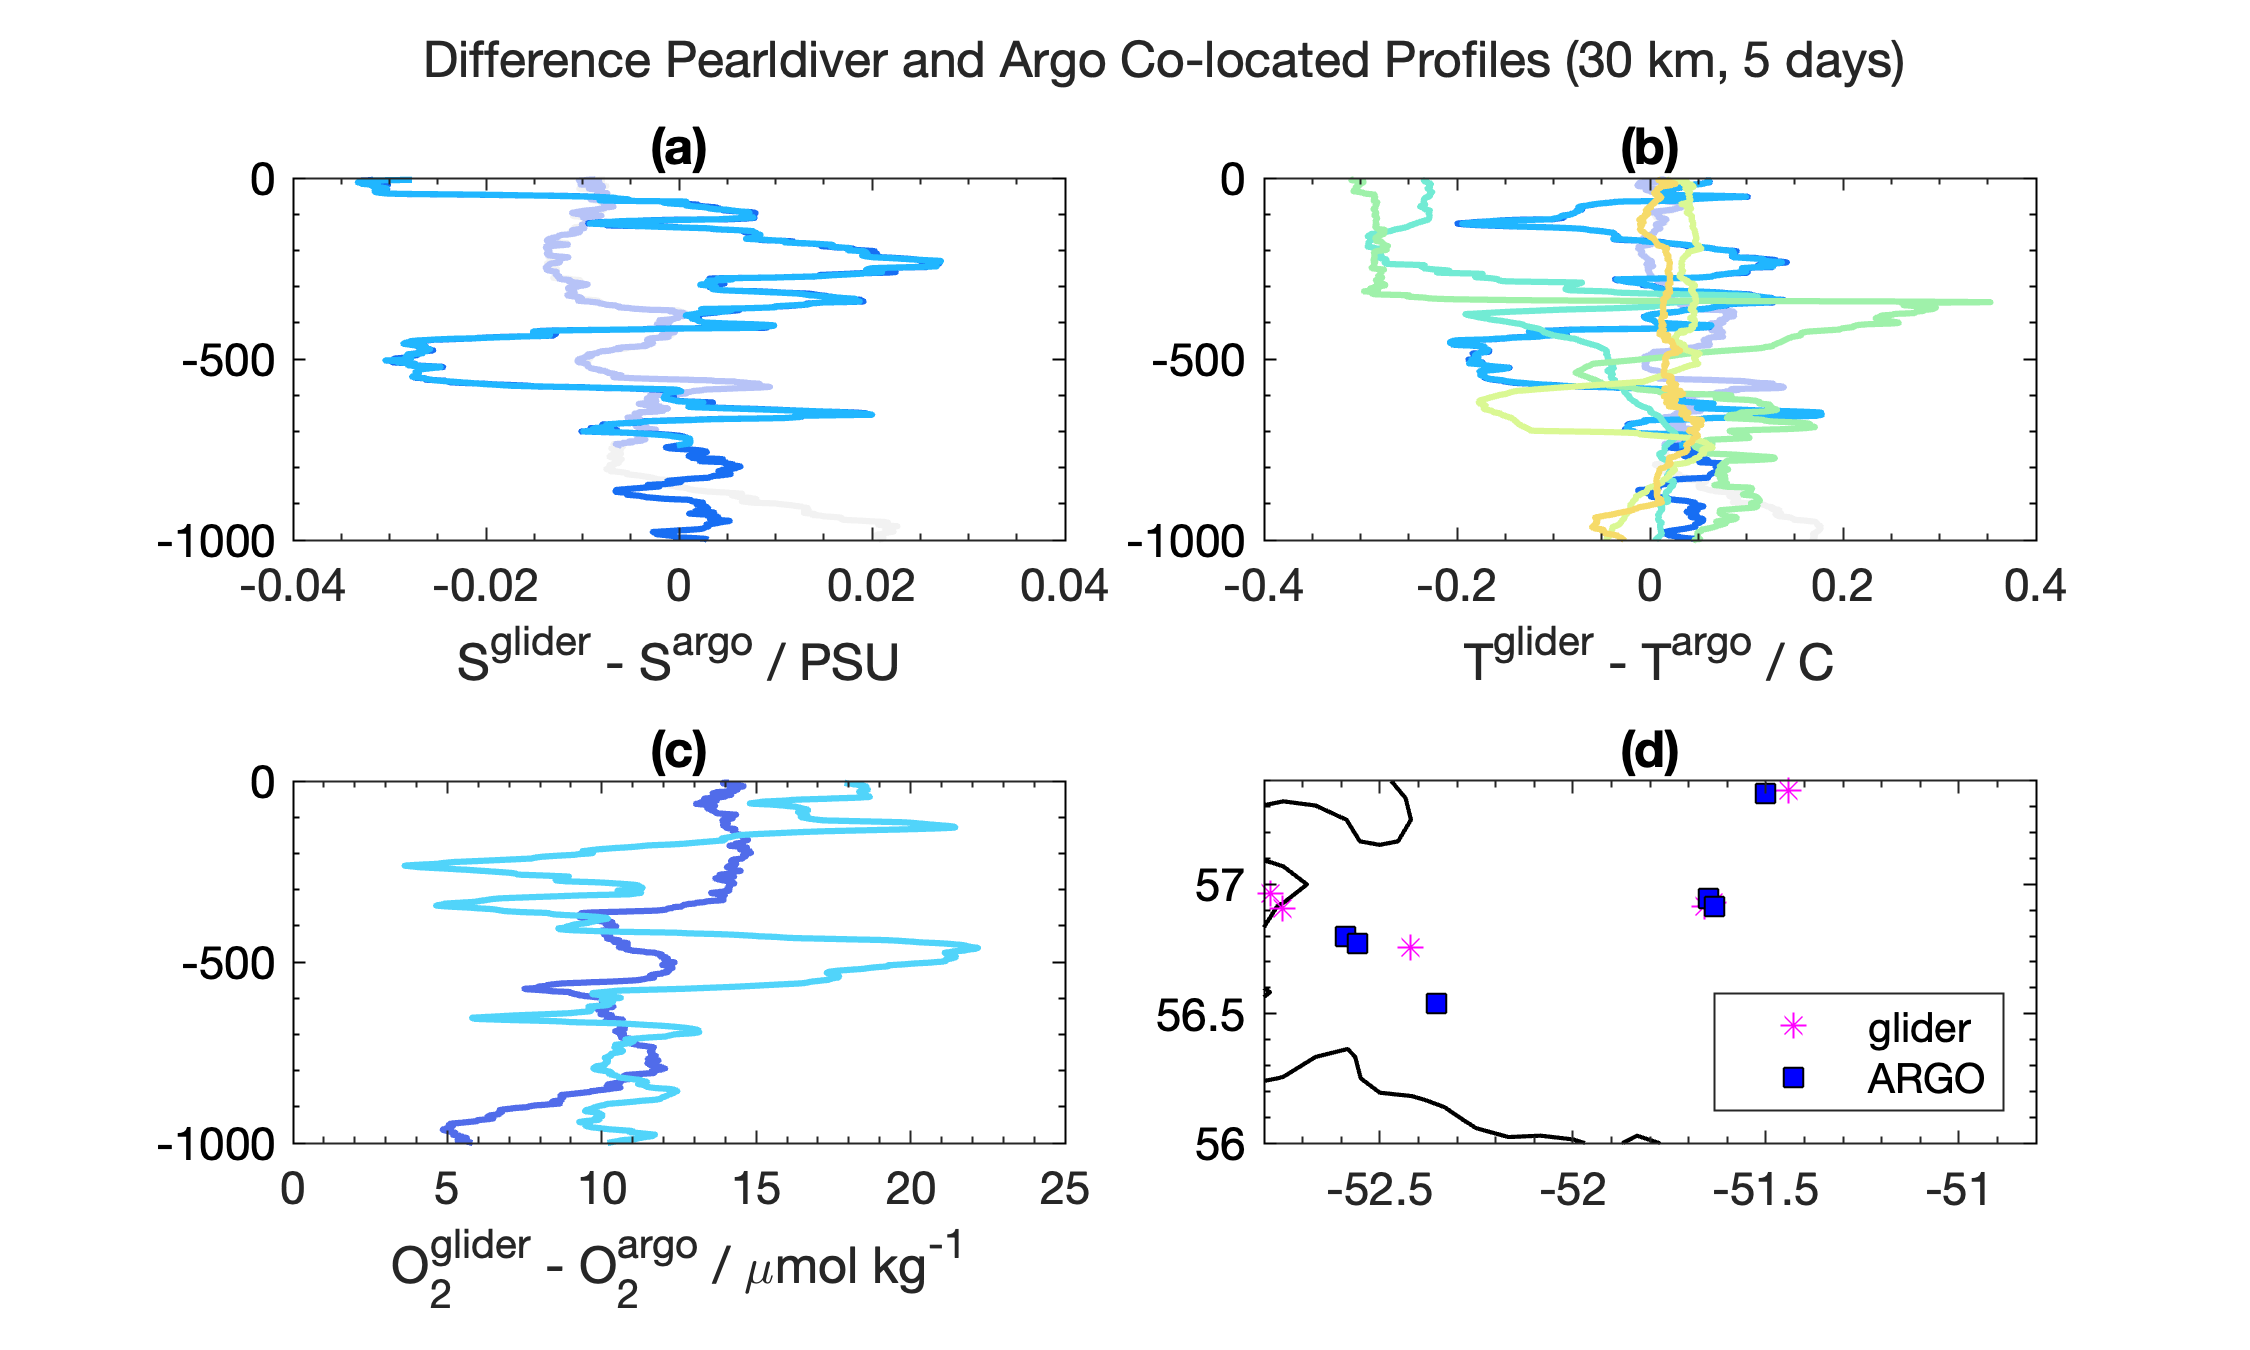
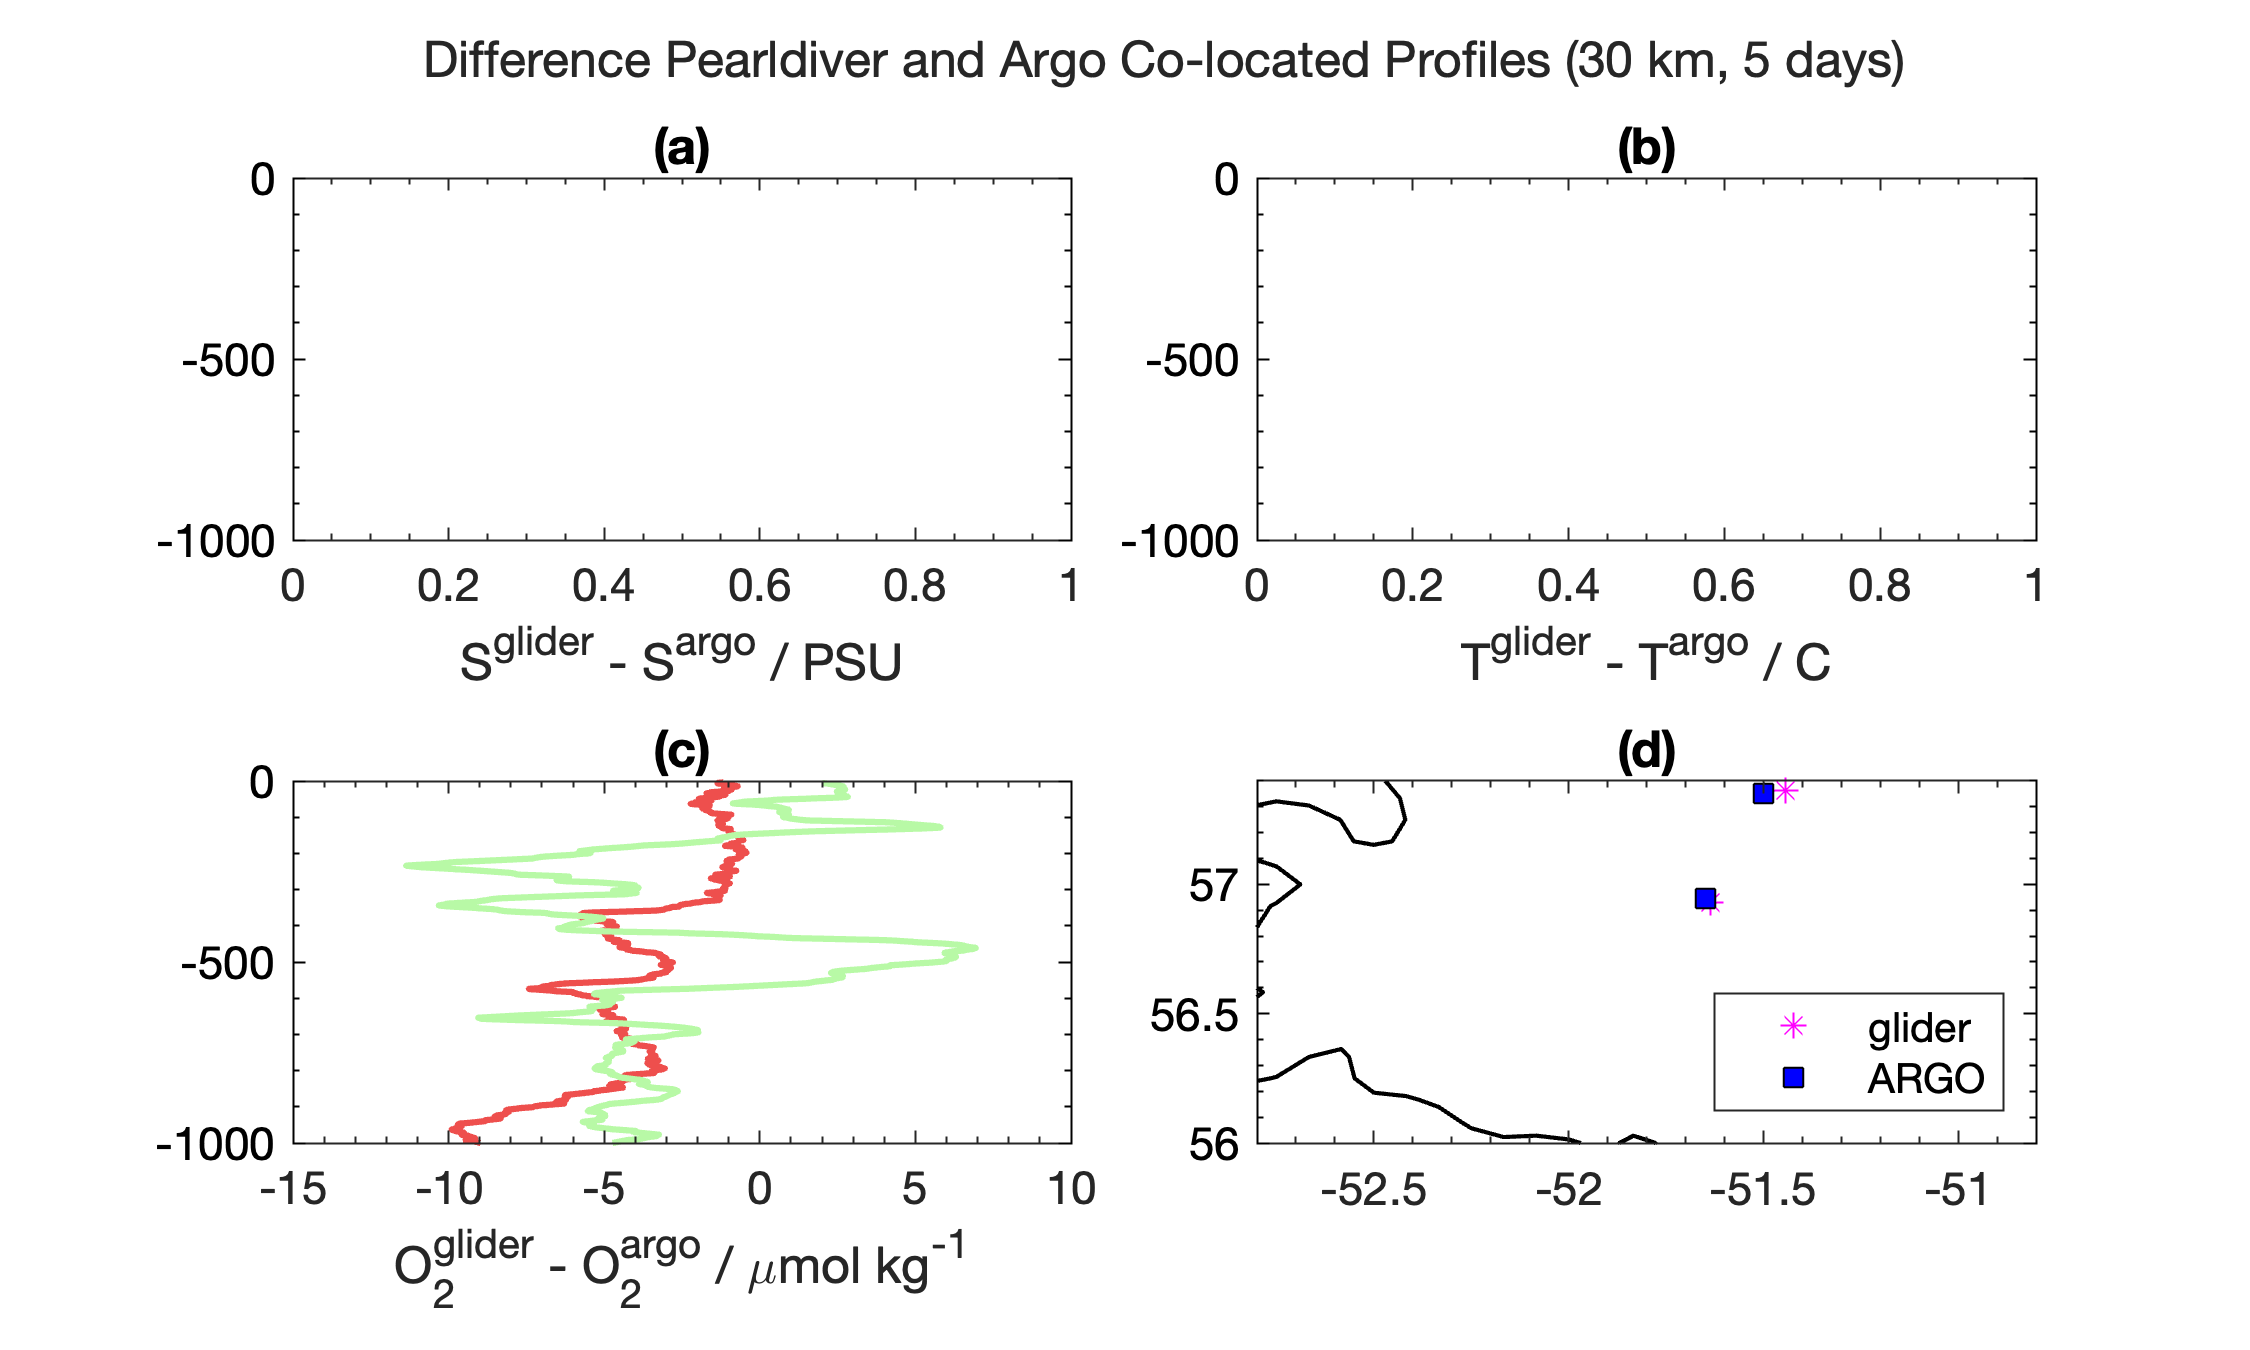
carry-over

diff --git a/LabSea_OxygenStory/p5_adjust_optode_ERA5_grd.m b/LabSea_OxygenStory/p5_adjust_optode_ERA5_grd.m
@@ -1,0 +1,142 @@
+clear; clc; close all;
+
+path_name = './mat_files/'
+var_name  = 'pearldiver_data'
+load(fullfile(path_name,[var_name,'_clean.mat']))
+dat = pearldiver; 
+
+% load ERA5 hourly single level data
+load('./mat_files/pearldiver_era5_data.mat')
+
+slp = interp1(era5.time,era5.slp,dat.gridded.timeg);
+rh  = interp1(era5.time,era5.rh, dat.gridded.timeg);
+ta  = interp1(era5.time,era5.ta, dat.gridded.timeg);
+pH2O  = vpress(nanmean(dat.gridded.salinity(1:5,:),1),nanmean(dat.gridded.temperature(1:5,:),1)); % atm top 5 m
+
+% Compute Partial Pressure Oxygen Air and Wet
+pO2_opt = O2ctoO2p(dat.gridded.oxygen_raw,dat.gridded.temperature,...
+    dat.gridded.salinity,dat.gridded.pressure); % mbar Optode derived
+
+pO2_air = (slp/101325-pH2O.*rh)*0.20946*1013.25; % mbar ERA5 derived
+
+
+psat = satvap(ta,slp*0.01);
+pO2_ref = 0.20946*(1013.25-psat);               % mbar Theoretical in-air
+
+%% Next Extract Surface Measuring Intervals
+
+pO2wet_1m = nanmean(pO2_opt(1:2,:),1); % surface O2
+pO2wet_2m = nanmean(pO2_opt(3:5,:),1); % subsurface
+depth_1m  = nanmean(dat.gridded.pressure(1:2,:),1);
+
+
+% This is getting under/super saturation
+d_O2wet_a = (pO2wet_1m ./pO2_ref)-1; % glider near  air 1m
+d_O2air_a = (pO2_air ./pO2_ref)-1; % era5 data 
+d_O2wet_w2m = (pO2wet_2m ./ pO2_ref)-1;
+
+%% Carry Over Effect:
+% From github ARGO Canada DMQC
+x1 = pO2wet_1m - pO2_air;
+y1 = pO2wet_2m - pO2_air;
+x1 = x1(:); y1 = y1(:);
+
+id = ~isnan(x1) & ~isnan(y1);
+x1 = x1(id);
+y1 = y1(id);
+X = [x1, ones(length(x1), 1)];  % Adding a column of ones for intercept
+c = X \ y1;
+c = c(1);
+
+O2_gains = ((1-c)*pO2_air)./(pO2wet_1m - c*pO2wet_2m);
+
+% plot(dat.gridded.timeg,1./O2_gains,'.')
+
+% This is how I would estimate the gain ref vs measured to adjust
+% O2_gains= (pO2air_1m./ pO2wet_1m); % simple absolute gain based on pO2
+% air should be pO2 glider at surface
+O2_gains_o= (d_O2air_a+1)./(d_O2wet_a+1); 
+
+%% Stuff from Nicholson 2017 -- trying to recreate plots
+% d_O2wet_a = (pO2wet_1m ./dat.pO2ref)-1; % glider near  air 1m
+% d_O2air_a = (pO2air_1m ./dat.pO2ref)-1; % era5 data 
+% d_O2wet_w2m = (pO2wet_2m ./dat.pO2ref)-1;
+% d_O2wet_w100m = (pO2wet_100m./dat.pO2ref)-1;
+
+% idnan = isnan(d_O2wet_a) | isnan(d_O2wet_w100m) | isnan(d_O2wet_w2m);
+% d_O2wet_w100m(idnan)=[];
+% d_O2wet_a(idnan)=[];
+% d_O2wet_w2m(idnan)=[];
+
+tthresh = datenum(2020,04,01);
+id = find(dat.gridded.timeg(~isnan(dat.gridded.timeg)) < tthresh);
+id2 = find(dat.gridded.timeg(~isnan(dat.gridded.timeg)) > tthresh);
+
+
+% Create a figure
+figure;
+
+% Create a tiled layout with 1 row and 2 columns
+t = tiledlayout(2, 2);
+
+% Create the first tile
+nexttile([1 2]);
+hold on;
+h1 = plot(dat.gridded.timeg, O2_gains, '.');
+h2 = plot(dat.gridded.timeg, dat.gridded.timeg*0 + nanmedian(O2_gains(id)), '-b');
+h3 = plot(dat.gridded.timeg, dat.gridded.timeg*0 + nanmean(O2_gains(id)), '-r');
+h4 = plot(dat.gridded.timeg, dat.gridded.timeg*0 + nanmean(O2_gains(id)) - std(O2_gains(id), [], "all", "omitnan"), '--k');
+plot(dat.gridded.timeg, dat.gridded.timeg*0 + nanmean(O2_gains(id)) + std(O2_gains(id), [], "all", "omitnan"), '--k');
+plot([tthresh tthresh], [0.85 1.1], ':', 'Color', [.6 .6 .6]);
+legend([h1 h2 h3 h4], {'gains', ...
+    ['median (',num2str(round(nanmedian(O2_gains(id)),3)),')'], ...
+    ['mean (',num2str(round(nanmean(O2_gains(id)),3)),')'], ...
+    ['\pm 1\sigma (',num2str(round(nanstd(O2_gains(id)),3)),')'],...
+    }, 'Location', 'best');
+ylabel('gain (\Delta O^{air}_{2,a} / \Delta O^{wet}_{2,a})');
+xlim([datenum(2020, 01, 01) datenum(2020, 05, 30)]);
+datetick('x', 'dd-mmm-yy');
+title('(a)','HorizontalAlignment','left')
+formatplot;
+
+% Create the second tile
+nexttile;
+hold on;
+h = histogram(O2_gains(id));
+h2 = histogram(O2_gains(id2), 'FaceColor', 'm', 'BinWidth', h.BinWidth);
+h3 = plot([nanmean(O2_gains(id)) nanmean(O2_gains(id))], [0 80], '-r', 'LineWidth', 2);
+h4 = plot([nanmedian(O2_gains(id)) nanmedian(O2_gains(id))], [0 80], '-b', 'LineWidth', 2);
+xlabel('gain factor \Delta O^{air}_{2,a} / \Delta O^{wet}_{2,a}');
+ylabel('count');
+title('(b)','HorizontalAlignment','left')
+legend('gains (t<01-04-2020)', 'gains (t>01-04-2020)', 'mean', 'median', 'Location', 'best');
+formatplot;
+
+
+% Format date tick labels
+nexttile; hold on
+plot(d_O2wet_w2m*100+100,d_O2wet_a*100+100,'*');
+plot([90 105],[90 110],':k')
+xlim([94 107])
+ylim([94 107])
+ylabel('O^{wet,a}_2 / %')
+xlabel('O^{wet, 2m}_2 / %')
+formatplot
+title('(c)','HorizontalAlignment','left')
+legend('glider data','1:1 fit','location','best')
+
+
+t.TileSpacing='compact';
+t.Padding='compact';
+subtitle(t,'Pearldiver Glider and ERA5 derived Surface pO_2 Gains (Carry-Over Effect)')
+save_figure(gcf,['./plots/pearldiver_era5_optode_gains_carry_over'],[7.5 5],['.png'],'300')
+
+%% Adjust Raw Oxygen using the median gain before May 1 calculated from the ERA5 pO2 comparison
+tthresh = datenum(2020,04,01);
+id = find(dat.gridded.timeg < tthresh);
+pearldiver.adjusted_oxygen_concentration = dat.raw_oxygen_concentration*nanmean(O2_gains(id));
+pearldiver.gridded.oxygen_adjusted = dat.gridded.oxygen_raw*nanmean(O2_gains(id));
+
+% save result
+save(fullfile(path_name,[var_name,'_oxy_qc.mat']),'pearldiver','-v7.3')
+

diff --git a/LabSea_OxygenStory/s5_adjust_optode_ERA5_grd.m b/LabSea_OxygenStory/s5_adjust_optode_ERA5_grd.m
@@ -1,0 +1,142 @@
+clear; clc; close all;
+
+path_name = './mat_files/'
+var_name  = 'sunfish_data'
+load(fullfile(path_name,[var_name,'_clean.mat']))
+dat = sunfish; 
+
+% load ERA5 hourly single level data
+load('./mat_files/sunfish_era5_data.mat')
+
+slp = interp1(era5.time,era5.slp,dat.gridded.timeg);
+rh  = interp1(era5.time,era5.rh, dat.gridded.timeg);
+ta  = interp1(era5.time,era5.ta, dat.gridded.timeg);
+pH2O  = vpress(nanmean(dat.gridded.salinity(1:5,:),1),nanmean(dat.gridded.temperature(1:5,:),1)); % atm top 5 m
+
+% Compute Partial Pressure Oxygen Air and Wet
+pO2_opt = O2ctoO2p(dat.gridded.oxygen_raw,dat.gridded.temperature,...
+    dat.gridded.salinity,dat.gridded.pressure); % mbar Optode derived
+
+pO2_air = (slp/101325-pH2O.*rh)*0.20946*1013.25; % mbar ERA5 derived
+
+
+psat = satvap(ta,slp*0.01);
+pO2_ref = 0.20946*(1013.25-psat);               % mbar Theoretical in-air
+
+%% Next Extract Surface Measuring Intervals
+
+pO2wet_1m = nanmean(pO2_opt(1:2,:),1); % surface O2
+pO2wet_2m = nanmean(pO2_opt(3:5,:),1); % subsurface
+depth_1m  = nanmean(dat.gridded.pressure(1:2,:),1);
+
+
+% This is getting under/super saturation
+d_O2wet_a = (pO2wet_1m ./pO2_ref)-1; % glider near  air 1m
+d_O2air_a = (pO2_air ./pO2_ref)-1; % era5 data 
+d_O2wet_w2m = (pO2wet_2m ./ pO2_ref)-1;
+
+%% Carry Over Effect:
+% From github ARGO Canada DMQC
+x1 = pO2wet_1m - pO2_air;
+y1 = pO2wet_2m - pO2_air;
+x1 = x1(:); y1 = y1(:);
+
+id = ~isnan(x1) & ~isnan(y1);
+x1 = x1(id);
+y1 = y1(id);
+X = [x1, ones(length(x1), 1)];  % Adding a column of ones for intercept
+c = X \ y1;
+c = c(1);
+
+O2_gains = ((1-c)*pO2_air)./(pO2wet_1m - c*pO2wet_2m);
+
+% plot(dat.gridded.timeg,1./O2_gains,'.')
+
+% This is how I would estimate the gain ref vs measured to adjust
+% O2_gains= (pO2air_1m./ pO2wet_1m); % simple absolute gain based on pO2
+% air should be pO2 glider at surface
+O2_gains_o= (d_O2air_a+1)./(d_O2wet_a+1); 
+
+%% Stuff from Nicholson 2017 -- trying to recreate plots
+% d_O2wet_a = (pO2wet_1m ./dat.pO2ref)-1; % glider near  air 1m
+% d_O2air_a = (pO2air_1m ./dat.pO2ref)-1; % era5 data 
+% d_O2wet_w2m = (pO2wet_2m ./dat.pO2ref)-1;
+% d_O2wet_w100m = (pO2wet_100m./dat.pO2ref)-1;
+
+% idnan = isnan(d_O2wet_a) | isnan(d_O2wet_w100m) | isnan(d_O2wet_w2m);
+% d_O2wet_w100m(idnan)=[];
+% d_O2wet_a(idnan)=[];
+% d_O2wet_w2m(idnan)=[];
+
+tthresh = datenum(2022,04,01);
+id = find(dat.gridded.timeg(~isnan(dat.gridded.timeg)) < tthresh);
+id2 = find(dat.gridded.timeg(~isnan(dat.gridded.timeg)) > tthresh);
+
+
+% Create a figure
+figure;
+
+% Create a tiled layout with 1 row and 2 columns
+t = tiledlayout(2, 2);
+
+% Create the first tile
+nexttile([1 2]);
+hold on;
+h1 = plot(dat.gridded.timeg, O2_gains, '.');
+h2 = plot(dat.gridded.timeg, dat.gridded.timeg*0 + nanmedian(O2_gains(id)), '-b');
+h3 = plot(dat.gridded.timeg, dat.gridded.timeg*0 + nanmean(O2_gains(id)), '-r');
+h4 = plot(dat.gridded.timeg, dat.gridded.timeg*0 + nanmean(O2_gains(id)) - std(O2_gains(id), [], "all", "omitnan"), '--k');
+plot(dat.gridded.timeg, dat.gridded.timeg*0 + nanmean(O2_gains(id)) + std(O2_gains(id), [], "all", "omitnan"), '--k');
+plot([tthresh tthresh], [0.9 1.2], ':', 'Color', [.6 .6 .6]);
+legend([h1 h2 h3 h4], {'gains', ...
+    ['median (',num2str(round(nanmedian(O2_gains(id)),3)),')'], ...
+    ['mean (',num2str(round(nanmean(O2_gains(id)),3)),')'], ...
+    ['\pm 1\sigma (',num2str(round(nanstd(O2_gains(id)),3)),')'],...
+    }, 'Location', 'best');
+ylabel('gain (\Delta O^{air}_{2,a} / \Delta O^{wet}_{2,a})');
+xlim([datenum(2022, 01, 01) datenum(2022, 05, 30)]);
+datetick('x', 'dd-mmm-yy');
+title('(a)','HorizontalAlignment','left')
+formatplot;
+
+% Create the second tile
+nexttile;
+hold on;
+h = histogram(O2_gains(id));
+h2 = histogram(O2_gains(id2), 'FaceColor', 'm', 'BinWidth', h.BinWidth);
+h3 = plot([nanmean(O2_gains(id)) nanmean(O2_gains(id))], [0 100], '-r', 'LineWidth', 2);
+h4 = plot([nanmedian(O2_gains(id)) nanmedian(O2_gains(id))], [0 100], '-b', 'LineWidth', 2);
+xlabel('gain factor \Delta O^{air}_{2,a} / \Delta O^{wet}_{2,a}');
+ylabel('count');
+title('(b)','HorizontalAlignment','left')
+legend('gains (t<01-04-2022)', 'gains (t>01-04-2022)', 'mean', 'median', 'Location', 'best');
+formatplot;
+
+
+% Format date tick labels
+nexttile; hold on
+plot(d_O2wet_w2m*100+100,d_O2wet_a*100+100,'*');
+plot([82 95],[82 95],':k')
+xlim([82 95])
+ylim([82 95])
+ylabel('O^{wet,a}_2 / %')
+xlabel('O^{wet, 2m}_2 / %')
+formatplot
+title('(c)','HorizontalAlignment','left')
+legend('glider data','1:1 fit','location','best')
+
+
+t.TileSpacing='compact';
+t.Padding='compact';
+subtitle(t,'Sunfish Glider and ERA5 derived Surface pO_2 Gains (Carry-Over Effect)')
+save_figure(gcf,['./plots/sunfish_era5_optode_gains_carry_over'],[7.5 5],['.png'],'300')
+
+%% Adjust Raw Oxygen using the median gain before May 1 calculated from the ERA5 pO2 comparison
+tthresh = datenum(2022,04,01);
+id = find(dat.gridded.timeg < tthresh);
+sunfish.adjusted_oxygen_concentration = dat.raw_oxygen_concentration*nanmean(O2_gains(id));
+sunfish.gridded.oxygen_adjusted = dat.gridded.oxygen_raw*nanmean(O2_gains(id));
+
+% save result
+save(fullfile(path_name,[var_name,'_oxy_qc.mat']),'sunfish','-v7.3')
+

diff --git a/LabSea_OxygenStory/p6_compare_to_argo_oxygen.m b/LabSea_OxygenStory/p6_compare_to_argo_oxygen.m
@@ -14,7 +14,7 @@ dat.gridded.oxygen_raw_umolkg = dat.gridded.oxygen_raw./(dat.gridded.rho/1000);
 load('./ARGO/argo_oxygen.mat')
 
 % Co-locate glider and Argo measurements and store result
-idx = find(argo.TIME>=dat.gridded.timeg(1) & argo.TIME<=dat.gridded.timeg(end));
+idx = find(argo.TIME>=dat.gridded.timeg(1) & argo.TIME<=datenum(2020,05,20));
 
 GL_VAR_LIST = fieldnames(dat.gridded);
 AR_VAR_LIST = fieldnames(argo);
@@ -50,7 +50,7 @@ t = tiledlayout(2,2);
 
 
 nexttile; hold on
-colMAP = seminfhaxby(length(glProfs.timeg)+2);
+colMAP = flipud(seminfhaxby(length(glProfs.timeg)+2));
 for i = 1:length(glProfs.timeg)
     plot(glProfs.salinity(:,i),-glProfs.pressure(:,i),'Color',colMAP(i,:),'LineWidth',1.5);
     plot(glProfs.argo.PSAL_ADJUSTED(:,i),-glProfs.argo.pgrid(:,i),'Color',colMAP(i,:));
@@ -90,7 +90,7 @@ formatplot
 legend([h1 h2],{'glider','ARGO'},'Location','SE')
 title('(d)')
 
-subtitle(t,'Difference Pearldiver and Argo Co-located Profiles (30 km, 5 days)')
+subtitle(t,'Pearldiver and Argo Co-located Profiles (30 km, 5 days)')
 t.TileSpacing='compact';
 save_figure(gcf,['./plots/pearldiver_argo_profiles'],[7.5 4.5],'.png','300')
 
@@ -101,7 +101,6 @@ t = tiledlayout(2,2);
 
 
 nexttile; hold on
-colMAP = seminfhaxby(length(glProfs.timeg)+2);
 for i = 1:length(glProfs.timeg)
     plot(glProfs.salinity(:,i)-glProfs.argo.PSAL_ADJUSTED(:,i),-glProfs.pressure(:,i),'Color',colMAP(i,:),'LineWidth',1.5);
 end

diff --git a/LabSea_OxygenStory/p5_adjust_optode_ERA5.m b/LabSea_OxygenStory/p5_adjust_optode_ERA5.m
@@ -62,12 +62,28 @@ pO2wet_100m = interp1(time_100m(id),pO2wet_100m(id),dat.time);
 % This is getting under/super saturation
 d_O2wet_a = (pO2wet_1m ./dat.pO2ref)-1; % glider near  air 1m
 d_O2air_a = (pO2air_1m ./dat.pO2ref)-1; % era5 data 
+d_O2wet_w2m = (pO2wet_2m ./dat.pO2ref)-1;
+
+%% Carry Over Effect:
+% From github ARGO Canada DMQC
+x1 = pO2wet_1m - pO2air_1m;
+y1 = pO2wet_2m - pO2air_1m;
+
+id = ~isnan(x1) & ~isnan(y1);
+x1 = x1(id);
+y1 = y1(id);
+X = [x1, ones(length(x1), 1)];  % Adding a column of ones for intercept
+c = X \ y1;
+c = c(1);
+
+O2_gains = ((1-c)*pO2air_1m(id))./(pO2wet_1m(id) - c*pO2wet_2m(id));
+
+plot(dat.time(id),O2_gains,'.')
 
 % This is how I would estimate the gain ref vs measured to adjust
 % O2_gains= (pO2air_1m./ pO2wet_1m); % simple absolute gain based on pO2
 % air should be pO2 glider at surface
-
-O2_gains= (d_O2air_a+1)./(d_O2wet_a+1); 
+O2_gains_o= (d_O2air_a(id)+1)./(d_O2wet_a(id)+1); 
 
 %% Stuff from Nicholson 2017 -- trying to recreate plots
 d_O2wet_a = (pO2wet_1m ./dat.pO2ref)-1; % glider near  air 1m

diff --git a/LabSea_OxygenStory/s6_compare_to_argo_oxygen.m b/LabSea_OxygenStory/s6_compare_to_argo_oxygen.m
@@ -14,7 +14,7 @@ dat.gridded.oxygen_raw_umolkg = dat.gridded.oxygen_raw./(dat.gridded.rho/1000);
 load('./ARGO/argo_oxygen.mat')
 
 % Co-locate glider and Argo measurements and store result
-idx = find(argo.TIME>=dat.gridded.timeg(1) & argo.TIME<=dat.gridded.timeg(end));
+idx = find(argo.TIME>=dat.gridded.timeg(1) & argo.TIME<=datenum(2022,05,01));
 
 GL_VAR_LIST = fieldnames(dat.gridded);
 AR_VAR_LIST = fieldnames(argo);
@@ -90,7 +90,7 @@ formatplot
 legend([h1 h2],{'glider','ARGO'},'Location','SE')
 title('(d)')
 
-subtitle(t,'Difference Sunfish and Argo Co-located Profiles (30 km, 5 days)')
+subtitle(t,'Sunfish and Argo Co-located Profiles (30 km, 5 days)')
 t.TileSpacing='compact';
 save_figure(gcf,['./plots/sunfish_argo_profiles'],[7.5 4.5],'.png','300')
 
